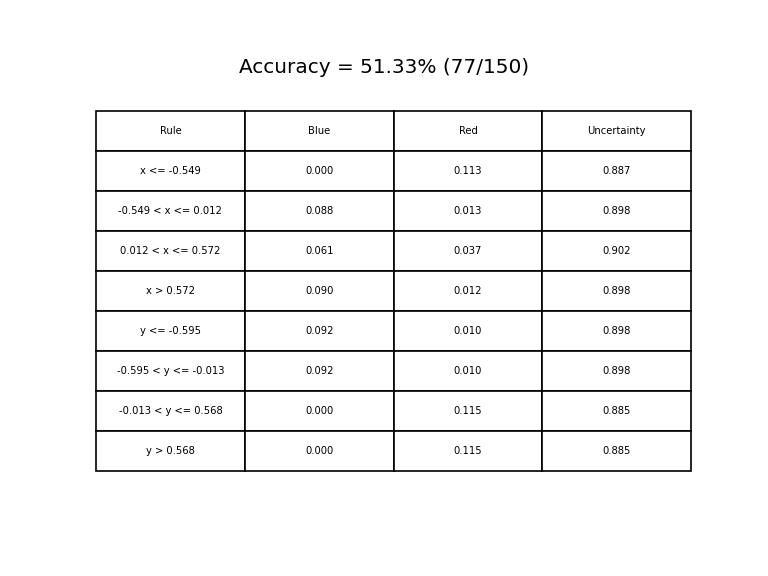
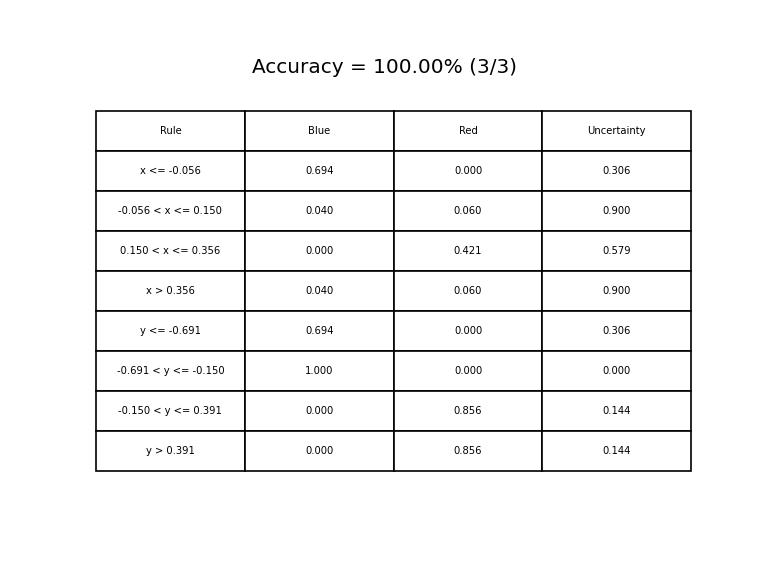
Plausibility for class probability

diff --git a/src/model.py b/src/model.py
@@ -35,13 +35,15 @@ def mse(y, y_hat):
     
     return sum_/(NUM_CLASSES*tot)
 
-def get_class_probabilities_a1(dict_m):
-    r, b, r_b = dict_m[frozenset({'R'})], dict_m[frozenset({'B'})], dict_m[frozenset({'R', 'B'})] 
-    #max_m = max(r, b)
-    p_a = r + r_b
-    p_b = b + r_b
-    p_tot = p_a + p_b
-    return p_a/p_tot, p_b/p_tot # It works with projection working!
+def get_two_class_probabilities(dict_m, dataset_name):
+    # r, b, r_b = dict_m[frozenset({'R'})], dict_m[frozenset({'B'})], dict_m[frozenset({'R', 'B'})]
+    # #max_m = max(r, b)
+    # p_a = r + r_b
+    # p_b = b + r_b
+    # p_tot = p_a + p_b
+    # return p_a/p_tot, p_b/p_tot # It works with projection working!
+    class_0, class_1 = get_class_plausibility(plausibility(dict_m), dataset_name)
+    return class_0/(class_0+class_1), class_1/(class_0+class_1)
     #return r, b, r_b
     #return r/(r+r_b), b/(r+r_b), r_b 
     #return r/(r+b+r_b), b/(r+b+r_b), r_b 
@@ -95,12 +97,30 @@ def model_predict_train_bc(a,b,c,d,e,f,g,h,i, rule_set):
 
     return y_hat
 
+def model_predict_train(x,y, rule_set, dataset_name):
+    M = []
+    for m,_,s in rule_set:
+        if s(x,y): # Point coordinates (y is NOT label class here)
+            M.append(m)
+
+    m = weight_full_uncertainty_A1()
+    for m_i in M:
+        m = dempster_rule(m,m_i)
+        
+    r_prob, b_prob = get_two_class_probabilities(m, dataset_name)
+    # Change order to match one hot encoding of classes
+    # Blue (class 0) => [1 0]
+    # Red  (class 1) => [0 1]
+    y_hat = [b_prob, r_prob]
+
+    return y_hat
+
 
 def model_predict_train_test(X, rule_set, dataset_name):
     if dataset_name == "A1_Dataset":
         y_hat_list = []
         for x,y in X:
-            y_hat = model_predict_train_a1(x,y, rule_set)
+            y_hat = model_predict_train(x,y, rule_set, dataset_name)
             y_hat_list.append(y_hat)
         return y_hat_list
     elif dataset_name == "BC_Dataset":

diff --git a/utils/aux_function.py b/utils/aux_function.py
@@ -58,5 +58,15 @@ def order_rules_by_malign(rule_set):
     return dict_rule_malig_sorted
 
 
+# ------------ Common -------------------
+
+def get_class_plausibility(dict_m, dataset_name):
+    if dataset_name == "A1_Dataset":
+        class_0, class_1 = dict_m[frozenset({'R'})], dict_m[frozenset({'B'})]
+    elif dataset_name == "BC_Dataset":
+        class_0, class_1 = dict_m[frozenset({'B'})], dict_m[frozenset({'M'})]
+    else:
+        assert False
+    return class_0, class_1 
 
 

diff --git a/src/main.py b/src/main.py
@@ -39,8 +39,8 @@ def evaluate_A1_dataset(dataset_name):
     graph_filepath = os.path.join(IMAGE_FOLDER, A1_LOSS_IMG)
     table_filepath = os.path.join(IMAGE_FOLDER, A1_RULE_TABLE)
 
-    X_train, Y_train, X_test, Y_test = dataset_A1()
-    #X_train, Y_train, X_test, Y_test = test_data()
+    #X_train, Y_train, X_test, Y_test = dataset_A1()
+    X_train, Y_train, X_test, Y_test = test_data()
 
     rule_set, rule_presentation = generate_rules_dataset_A1(X_train)
     loss = MSE()

diff --git a/utils/config.py b/utils/config.py
@@ -9,7 +9,7 @@ CLASS_          = "class"
 BREAK_IT        = "Breaking at {} iteration"
 EPSILON         = 0.0001
 NUM_CLASSES     = 2 
-NUM_EPOCHS      = 50
+NUM_EPOCHS      = 750
 
 #--- A1 Dataset ---
 NUM_ELEMENTS      = 500
